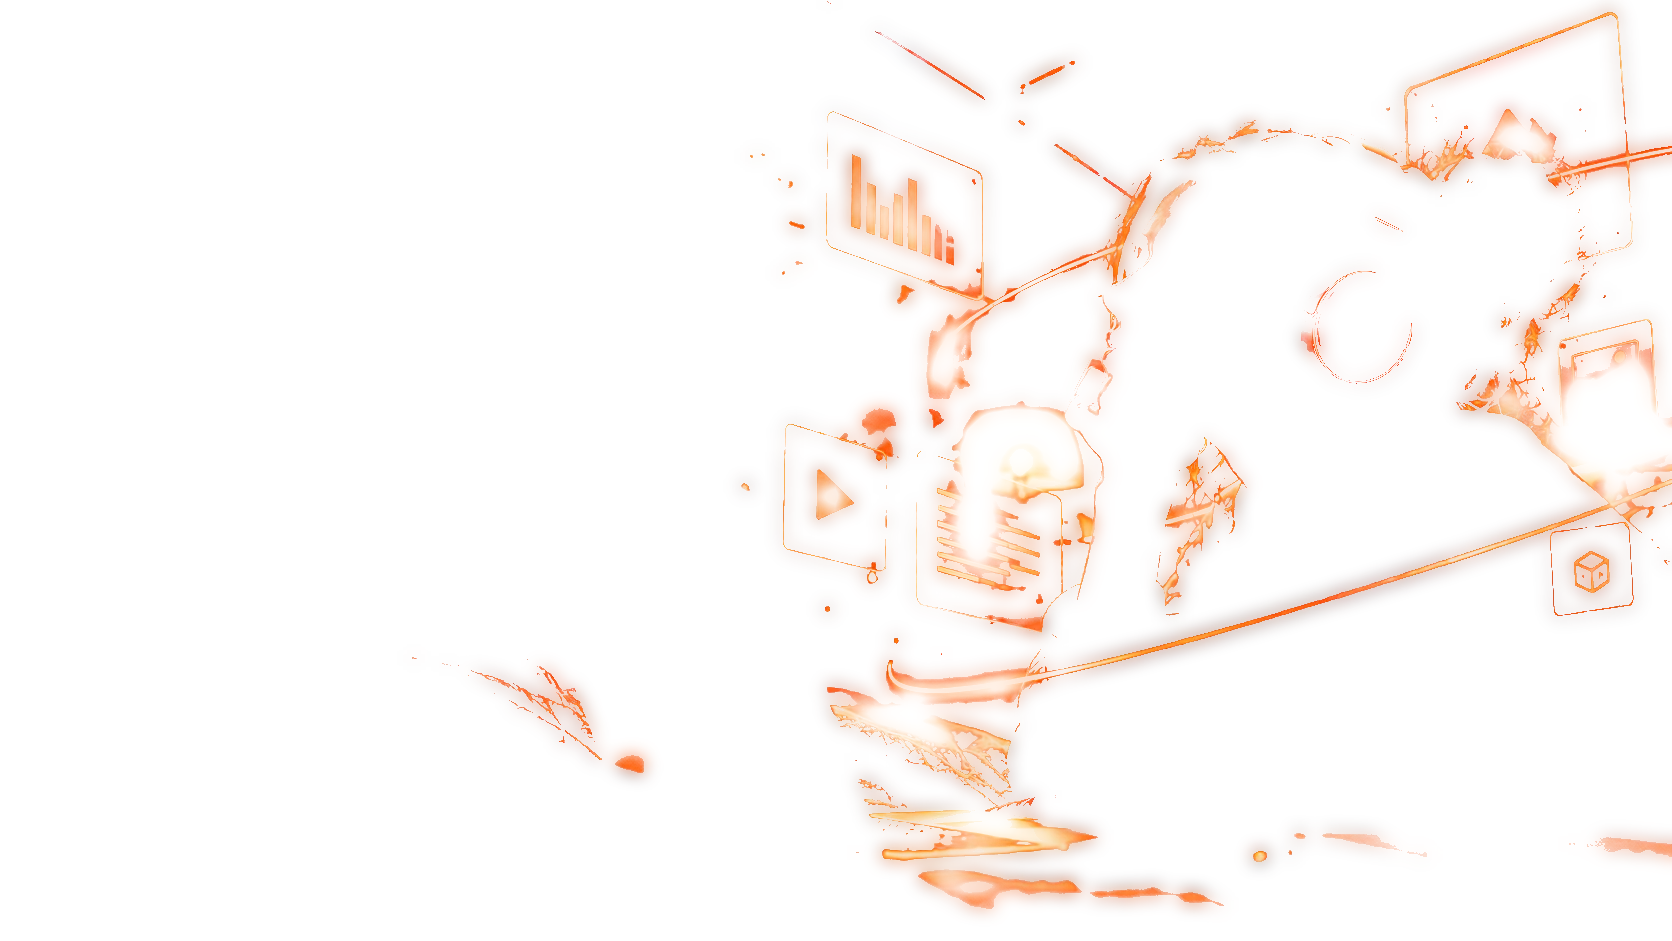
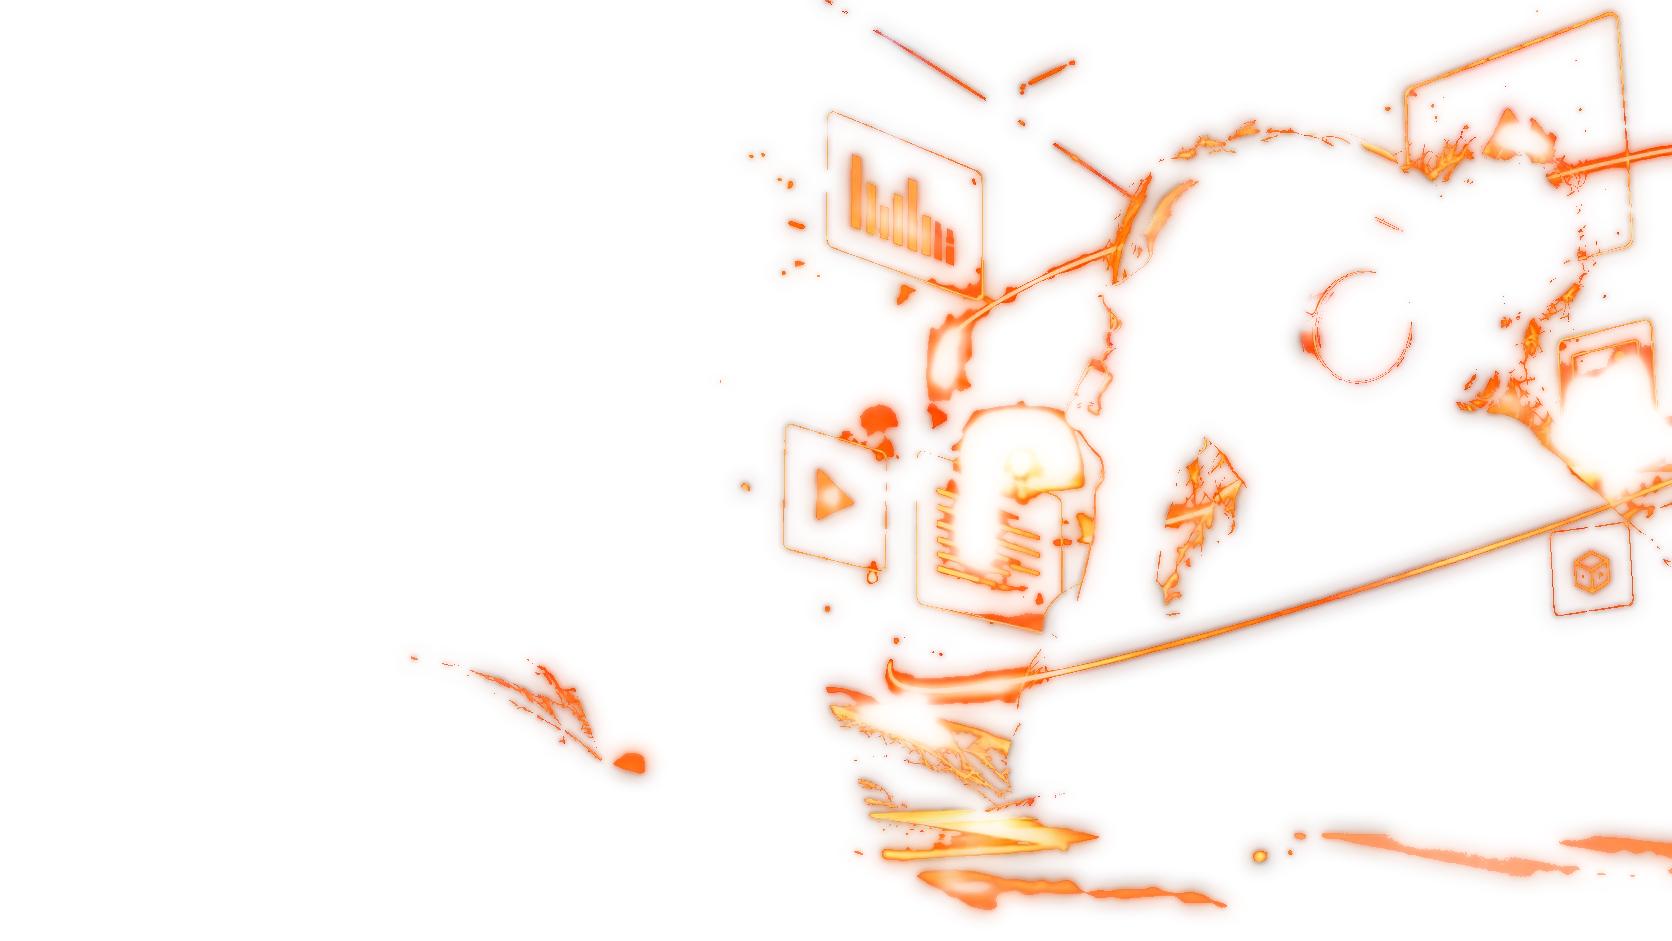
Hero: neon mais forte, menu inteiro, texto centralizado, imagem em 2x e botao com borda em movimento
- Neon: pulso de quase apagado a aceso, camada com brilho e saturacao maiores.
- Menu: a regra global main/header/footer deixava o header relative e a
  secao seguinte cortava a pilula; o header do menu (data-nav) volta a ser
  fixo e flutuar por cima, no site todo.
- Texto do topo centralizado na altura, descontando o menu.
- Imagens ampliadas para 2x (3344 e 1882 px) com nitidez e menos compressao;
  zoom do fundo menor para nao ampliar ainda mais.
- Botao principal com o moving-border (adaptado para motion/react e para o
  laranja da marca), borda laranja suave fixa e o brilho correndo por cima.

diff --git a/components/ui/moving-border.tsx b/components/ui/moving-border.tsx
@@ -1,0 +1,120 @@
+"use client";
+
+/* Botão com borda em movimento (adaptado do componente "moving-border").
+   Diferenças da versão original:
+   - usa "motion/react", a biblioteca de animação que o projeto já tem
+     (é o novo nome do framer-motion, mesma API);
+   - o brilho padrão é o laranja da OutBox, sem depender de variáveis de cor
+     do tailwind.config (o projeto usa Tailwind 4, sem esse arquivo);
+   - para quem pede menos movimento, a borda fica parada. */
+
+import React, { useRef } from "react";
+import {
+  motion,
+  useAnimationFrame,
+  useMotionTemplate,
+  useMotionValue,
+  useReducedMotion,
+  useTransform,
+} from "motion/react";
+import { cn } from "@/lib/utils";
+
+type ButtonProps = {
+  borderRadius?: string;
+  children: React.ReactNode;
+  as?: React.ElementType;
+  containerClassName?: string;
+  borderClassName?: string;
+  duration?: number;
+  className?: string;
+  [key: string]: unknown;
+};
+
+export function Button({
+  borderRadius = "1.75rem",
+  children,
+  as: Component = "button",
+  containerClassName,
+  borderClassName,
+  duration,
+  className,
+  ...otherProps
+}: ButtonProps) {
+  return (
+    <Component
+      className={cn("relative h-16 w-40 overflow-hidden bg-transparent p-[2px] text-xl", containerClassName)}
+      style={{ borderRadius }}
+      {...otherProps}
+    >
+      <div className="absolute inset-0" style={{ borderRadius: `calc(${borderRadius} * 0.96)` }}>
+        <MovingBorder duration={duration} rx="30%" ry="30%">
+          <div
+            className={cn(
+              "h-20 w-20 opacity-90 bg-[radial-gradient(#f15532_40%,transparent_60%)]",
+              borderClassName
+            )}
+          />
+        </MovingBorder>
+      </div>
+
+      <div
+        className={cn(
+          "relative flex h-full w-full items-center justify-center border border-white/10 bg-black/80 text-sm text-white antialiased backdrop-blur-xl",
+          className
+        )}
+        style={{ borderRadius: `calc(${borderRadius} * 0.96)` }}
+      >
+        {children}
+      </div>
+    </Component>
+  );
+}
+
+export function MovingBorder({
+  children,
+  duration = 2000,
+  rx,
+  ry,
+  ...otherProps
+}: {
+  children: React.ReactNode;
+  duration?: number;
+  rx?: string;
+  ry?: string;
+  [key: string]: unknown;
+}) {
+  const pathRef = useRef<SVGRectElement>(null);
+  const progress = useMotionValue<number>(0);
+  const reduzir = useReducedMotion();
+
+  useAnimationFrame((time) => {
+    if (reduzir) return;
+    const length = pathRef.current?.getTotalLength();
+    if (length) {
+      const pxPerMillisecond = length / duration;
+      progress.set((time * pxPerMillisecond) % length);
+    }
+  });
+
+  const x = useTransform(progress, (val) => pathRef.current?.getPointAtLength(val).x ?? 0);
+  const y = useTransform(progress, (val) => pathRef.current?.getPointAtLength(val).y ?? 0);
+  const transform = useMotionTemplate`translateX(${x}px) translateY(${y}px) translateX(-50%) translateY(-50%)`;
+
+  return (
+    <>
+      <svg
+        xmlns="http://www.w3.org/2000/svg"
+        preserveAspectRatio="none"
+        className="absolute h-full w-full"
+        width="100%"
+        height="100%"
+        {...otherProps}
+      >
+        <rect fill="none" width="100%" height="100%" rx={rx} ry={ry} ref={pathRef} />
+      </svg>
+      <motion.div style={{ position: "absolute", top: 0, left: 0, display: "inline-block", transform }}>
+        {children}
+      </motion.div>
+    </>
+  );
+}

diff --git a/components/site/Hero.tsx b/components/site/Hero.tsx
@@ -1,6 +1,7 @@
 import Link from "next/link";
 import Image from "next/image";
-import { ArrowUpRight, Sparkles } from "lucide-react";
+import { Sparkles } from "lucide-react";
+import HeroCta from "@/components/site/HeroCta";
 
 const STATS = [
   { value: "250+", label: "Projetos entregues", highlight: false },
@@ -12,7 +13,7 @@ export default function Hero() {
   return (
     <section className="relative overflow-hidden pb-24 md:pb-32">
       {/* Palco com a imagem de fundo: zoom lento e as luzes de neon pulsando */}
-      <div className="relative flex min-h-[100svh] items-end overflow-hidden md:min-h-[min(100svh,920px)] md:items-center">
+      <div className="relative flex min-h-[100svh] items-end overflow-hidden md:min-h-[min(100svh,960px)] md:items-center">
         <div aria-hidden className="hero-bg absolute inset-x-0 top-0 h-[74svh] md:inset-0 md:h-auto">
           <picture>
             <source media="(max-width: 767px)" srcSet="/img/hero/hero-mobile.webp" type="image/webp" />
@@ -44,7 +45,7 @@ export default function Hero() {
         <div aria-hidden className="absolute inset-x-0 bottom-0 h-40 bg-gradient-to-t from-black to-transparent" />
         <div aria-hidden className="absolute inset-x-0 top-0 h-36 bg-gradient-to-b from-black/60 to-transparent" />
 
-        <div className="container-outbox relative z-10 pb-14 pt-[56svh] md:pb-24 md:pt-40">
+        <div className="container-outbox relative z-10 pb-14 pt-[56svh] md:pb-14 md:pt-[112px]">
           <div className="flex flex-col items-center text-center md:max-w-[600px] md:items-start md:text-left">
             <span className="pill reveal">
               <span
@@ -73,15 +74,7 @@ export default function Hero() {
               className="mt-10 flex flex-col items-center gap-4 sm:flex-row md:items-start"
               style={{ transitionDelay: "220ms" }}
             >
-              <Link
-                href="/#contato"
-                className="group flex cursor-pointer items-center gap-3 rounded-full bg-white py-2 pl-2 pr-6 text-[15px] font-medium text-black transition-all duration-300 hover:shadow-[0_14px_40px_rgba(255,255,255,0.16)]"
-              >
-                <span className="flex h-10 w-10 items-center justify-center rounded-full bg-[var(--color-brand)] transition-transform duration-300 group-hover:rotate-45">
-                  <ArrowUpRight className="h-4.5 w-4.5 text-white" strokeWidth={2.4} />
-                </span>
-                Começar meu projeto
-              </Link>
+              <HeroCta />
 
               <Link
                 href="/#servicos"

diff --git a/components/site/HeroCta.tsx b/components/site/HeroCta.tsx
@@ -1,0 +1,26 @@
+"use client";
+
+import Link from "next/link";
+import { ArrowUpRight } from "lucide-react";
+import { Button } from "@/components/ui/moving-border";
+
+/* Botão principal do topo da home, com a borda laranja em movimento.
+   Fica num componente cliente porque o Link é passado como "as". */
+export default function HeroCta() {
+  return (
+    <Button
+      as={Link}
+      href="/#contato"
+      borderRadius="9999px"
+      duration={3200}
+      containerClassName="group h-auto w-auto cursor-pointer bg-[rgba(241,85,50,0.35)] p-[2.5px] shadow-[0_10px_40px_-8px_rgba(241,85,50,0.6)]"
+      borderClassName="h-24 w-24 opacity-100 bg-[radial-gradient(#ff7a5c_30%,#f15532_45%,transparent_62%)]"
+      className="gap-3 border-white/0 bg-white py-2 pl-2 pr-6 text-[15px] font-medium text-black backdrop-blur-none"
+    >
+      <span className="flex h-10 w-10 items-center justify-center rounded-full bg-[var(--color-brand)] transition-transform duration-300 group-hover:rotate-45">
+        <ArrowUpRight className="h-4.5 w-4.5 text-white" strokeWidth={2.4} />
+      </span>
+      Começar meu projeto
+    </Button>
+  );
+}

diff --git a/app/globals.css b/app/globals.css
@@ -717,8 +717,10 @@ html {
 }
 
 /* Todo conteúdo fica acima da camada de atmosfera */
+/* O menu (header[data-nav]) fica de fora: ele é fixo e flutua por cima.
+   Antes esta regra o deixava relative e a seção seguinte cortava a pílula. */
 main,
-header,
+header:not([data-nav]),
 footer {
   position: relative;
   z-index: 1;
@@ -876,8 +878,9 @@ footer {
 }
 .hero-bg__neon {
   mix-blend-mode: screen;
-  opacity: 0.55;
-  animation: hero-neon 3.2s ease-in-out infinite;
+  opacity: 0.6;
+  filter: brightness(1.3) saturate(1.35);
+  animation: hero-neon 2.8s ease-in-out infinite;
   will-change: opacity;
 }
 @keyframes hero-zoom {
@@ -885,19 +888,22 @@ footer {
     transform: scale(1.02) translate3d(0, 0, 0);
   }
   to {
-    transform: scale(1.12) translate3d(-1.5%, -1%, 0);
+    transform: scale(1.06) translate3d(-1%, -0.6%, 0);
   }
 }
 @keyframes hero-neon {
   0%,
   100% {
-    opacity: 0.2;
+    opacity: 0.05;
   }
-  45% {
+  40% {
     opacity: 1;
   }
-  55% {
-    opacity: 0.85;
+  50% {
+    opacity: 0.8;
+  }
+  58% {
+    opacity: 1;
   }
 }
 @media (prefers-reduced-motion: reduce) {

diff --git a/components/site/Navbar.tsx b/components/site/Navbar.tsx
@@ -39,7 +39,7 @@ export default function Navbar() {
 
   return (
     <>
-      <header className="fixed inset-x-0 top-4 z-50 px-4">
+      <header data-nav className="fixed inset-x-0 top-4 z-50 px-4">
         <nav
           aria-label="Navegação principal"
           className={`container-outbox flex items-center justify-between gap-4 rounded-full border py-2.5 pl-5 pr-2.5 transition-all duration-500 ${
